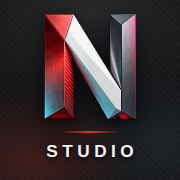
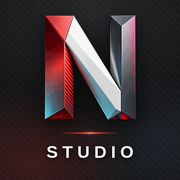
v0.51.1 — simge kırmızı ışığı gerçekçi neon oldu
Claude-Session: https://claude.ai/code/session_01Ma4TDJqoGksF8R64DrZn4N

diff --git a/index.html b/index.html
@@ -25,14 +25,14 @@
 <meta name="apple-mobile-web-app-status-bar-style" content="black">
 <meta name="apple-mobile-web-app-title" content="NIZAM Studio">
 
-<link rel="stylesheet" href="style.css?v=0.51.0">
+<link rel="stylesheet" href="style.css?v=0.51.1">
 </head>
 <body>
 
 <!-- ===== Açılış ekranı ===== -->
 <div id="loader">
   <div class="loader-box">
-    <img draggable="false" class="loader-logo" src="logo-full.png?v=0.51.0" alt="NIZAM Studio" width="118" height="128">
+    <img draggable="false" class="loader-logo" src="logo-full.png?v=0.51.1" alt="NIZAM Studio" width="118" height="128">
     <div class="loader-sub">Nizam Soft</div>
     <div class="loader-track"><div class="loader-fill"></div></div>
     <div class="loader-msg">Hazırlanıyor…</div>
@@ -43,7 +43,7 @@
 <!-- ===== Giriş ekranı ===== -->
 <div id="login" class="hidden">
   <form class="login-card" id="login-form" autocomplete="on">
-    <img class="login-logo" src="logo-n.png?v=0.51.0" alt="" width="57" height="66">
+    <img class="login-logo" src="logo-n.png?v=0.51.1" alt="" width="57" height="66">
     <h1>NIZAM <span class="pipe">|</span> Studio</h1>
     <p class="login-sub">Nizam Soft</p>
 
@@ -68,7 +68,7 @@
 
   <aside id="sidebar">
     <div class="brand">
-      <img class="brand-logo" src="logo-n.png?v=0.51.0" alt="" width="24" height="28">
+      <img class="brand-logo" src="logo-n.png?v=0.51.1" alt="" width="24" height="28">
       <div class="brand-text">
         <div class="brand-name">NIZAM <span class="pipe">|</span> Studio</div>
         <div class="brand-sub">Nizam Soft</div>
@@ -168,12 +168,12 @@
 
 <div id="toast" class="hidden"></div>
 
-<script src="vendor/supabase.js?v=0.51.0"></script>
-<script src="config.js?v=0.51.0"></script>
-<script src="auth.js?v=0.51.0"></script>
-<script src="data.js?v=0.51.0"></script>
-<script src="guncelle.js?v=0.51.0"></script>
-<script src="prompt.js?v=0.51.0"></script>
-<script src="app.js?v=0.51.0"></script>
+<script src="vendor/supabase.js?v=0.51.1"></script>
+<script src="config.js?v=0.51.1"></script>
+<script src="auth.js?v=0.51.1"></script>
+<script src="data.js?v=0.51.1"></script>
+<script src="guncelle.js?v=0.51.1"></script>
+<script src="prompt.js?v=0.51.1"></script>
+<script src="app.js?v=0.51.1"></script>
 </body>
 </html>

diff --git a/sw.js b/sw.js
@@ -2,7 +2,7 @@
    Ağ öncelikli: geliştirme sırasında eski dosya takılıp kalmaz.
    Ağ yoksa önbellekten döner. */
 
-const CACHE = 'nizam-studio-v0.51.0';
+const CACHE = 'nizam-studio-v0.51.1';
 const SHELL = [
   './', './index.html', './style.css', './app.js', './config.js', './auth.js', './data.js', './prompt.js', './guncelle.js',
   './vendor/supabase.js',

diff --git a/config.js b/config.js
@@ -7,7 +7,7 @@ const APP = {
   name:     'NIZAM | Studio',
   short:    'NIZAM Studio',
   owner:    'Nizam Soft',
-  version: 'v0.51.0',
+  version: 'v0.51.1',
   build:    '2026-08-20',
   stage: 'Adım 4 · Yapı ağacı',
 };

diff --git a/CHANGELOG.md b/CHANGELOG.md
@@ -1,5 +1,8 @@
 # Değişiklik Günlüğü
 
+## v0.51.1
+- Uygulama simgesindeki kırmızı ışık gerçek bir ışığa dönüştü: ince çekirdek, yumuşak hale.
+
 ## v0.51.0
 - **Künye ikiye ayrıldı.** Kim görür, hangi işler yapılabilir, hangisini kim yapar ve ortak kural artık **bir kez modül için** soruluyor; ağaçta modülün altında "Modül kuralları" satırı olarak duruyor.
 - **Sayfa künyesi üç soruya indi:** ne işe yarar · nasıl bir ekran (tür, kaç kayıt, yapı) · neler yazılacak. Dördüncü satır "Farklı mı?" — sayfa modül kuralından ayrılıyorsa orada yazılıyor, dokunulmazsa modülün kuralı geçerli.
